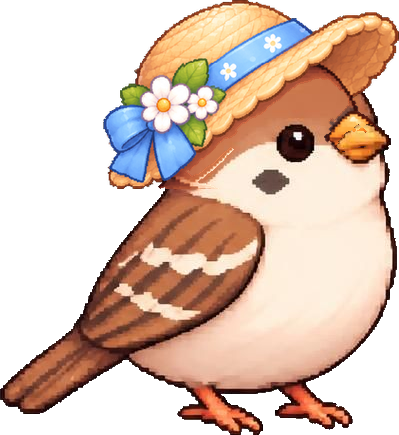
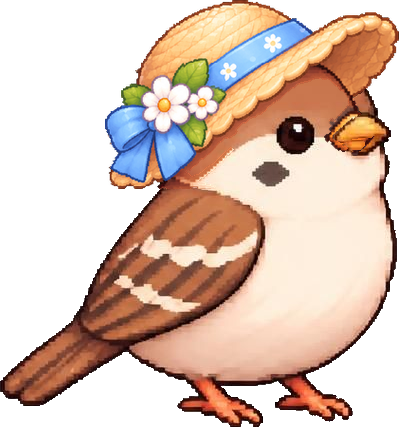
밀짚모자 1~3단계를 조금 아래로 내려 다시 그리기
Claude-Session: https://claude.ai/code/session_01FenDvGJto3X4NsLBBEtXT8

diff --git a/frontend/src/features/nest/NestScene.tsx b/frontend/src/features/nest/NestScene.tsx
@@ -128,9 +128,9 @@ const STAGED: Record<string, ([number, number, number] | null)[]> = {
  */
 const DRESSED: Record<string, ([number, number, number] | null)[]> = {
   'acc-straw-hat': [
-    [-17.2, -24.6, 117.2],
-    [0.0, -13.7, 100.0],
-    [0.0, -15.4, 100.5],
+    [-16.4, -21.6, 116.4],
+    [0.0, -11.5, 100.0],
+    [0.0, -13.3, 100.5],
     [0.0, -11.5, 102.3],
   ],
 };
